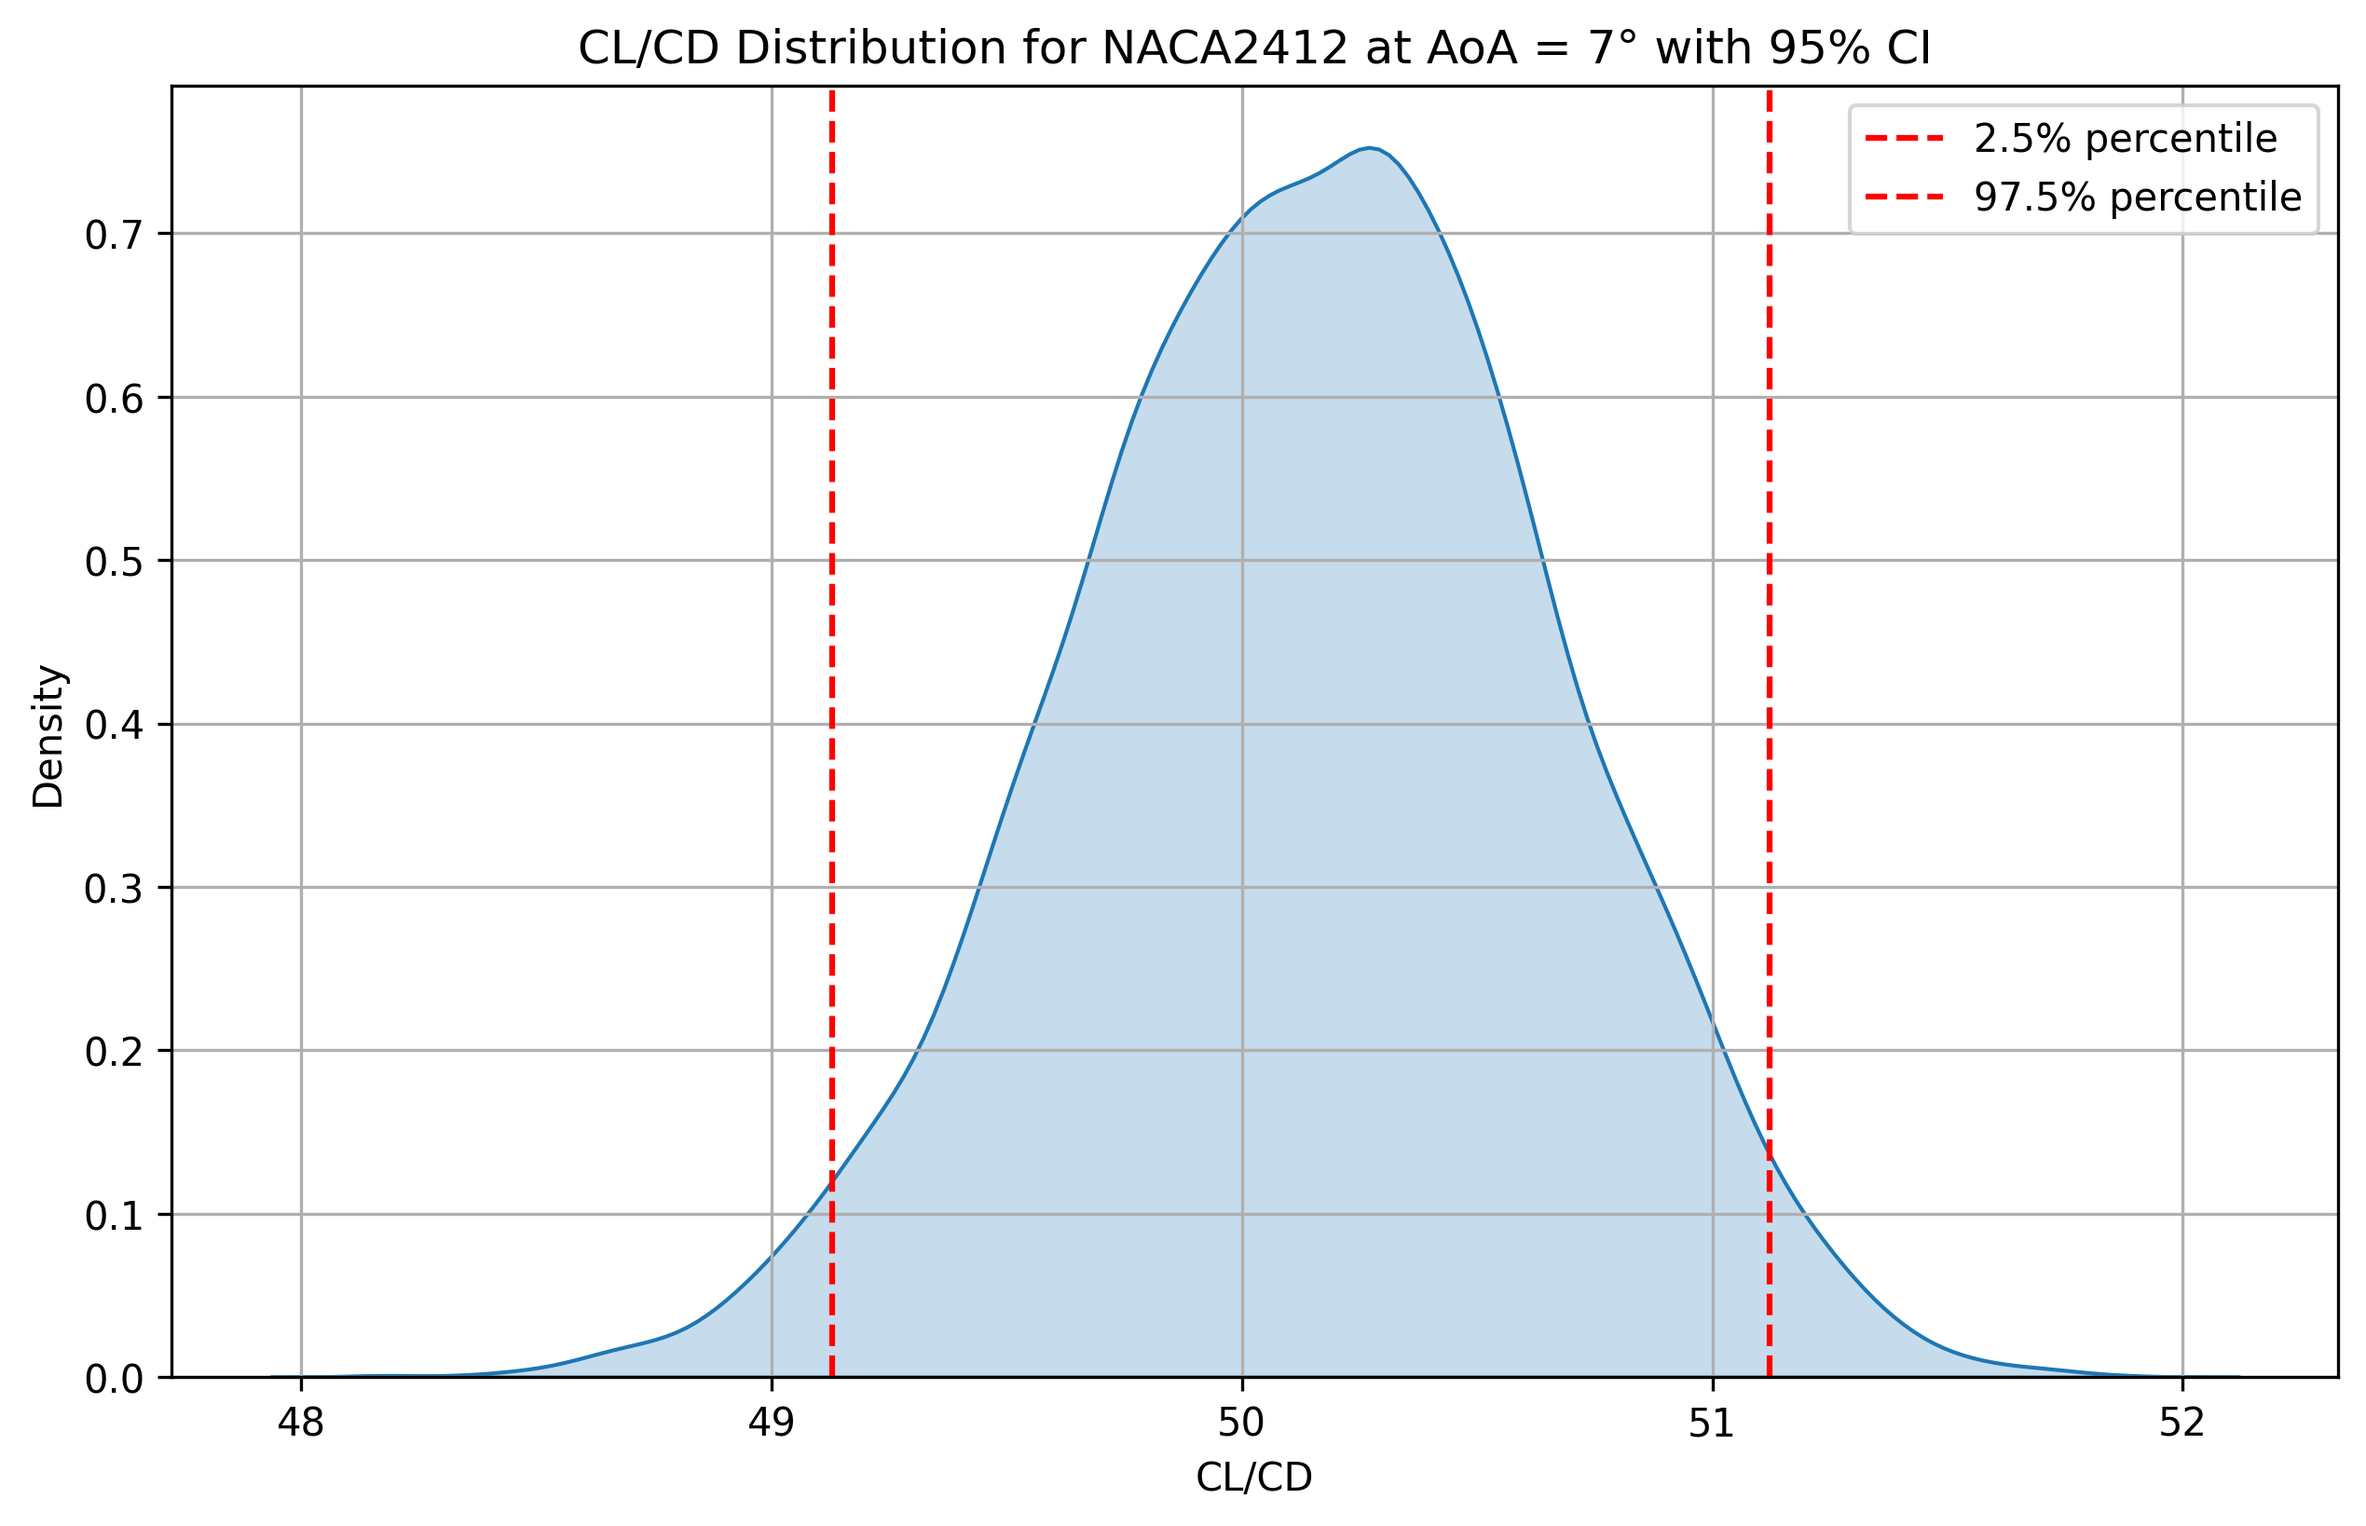
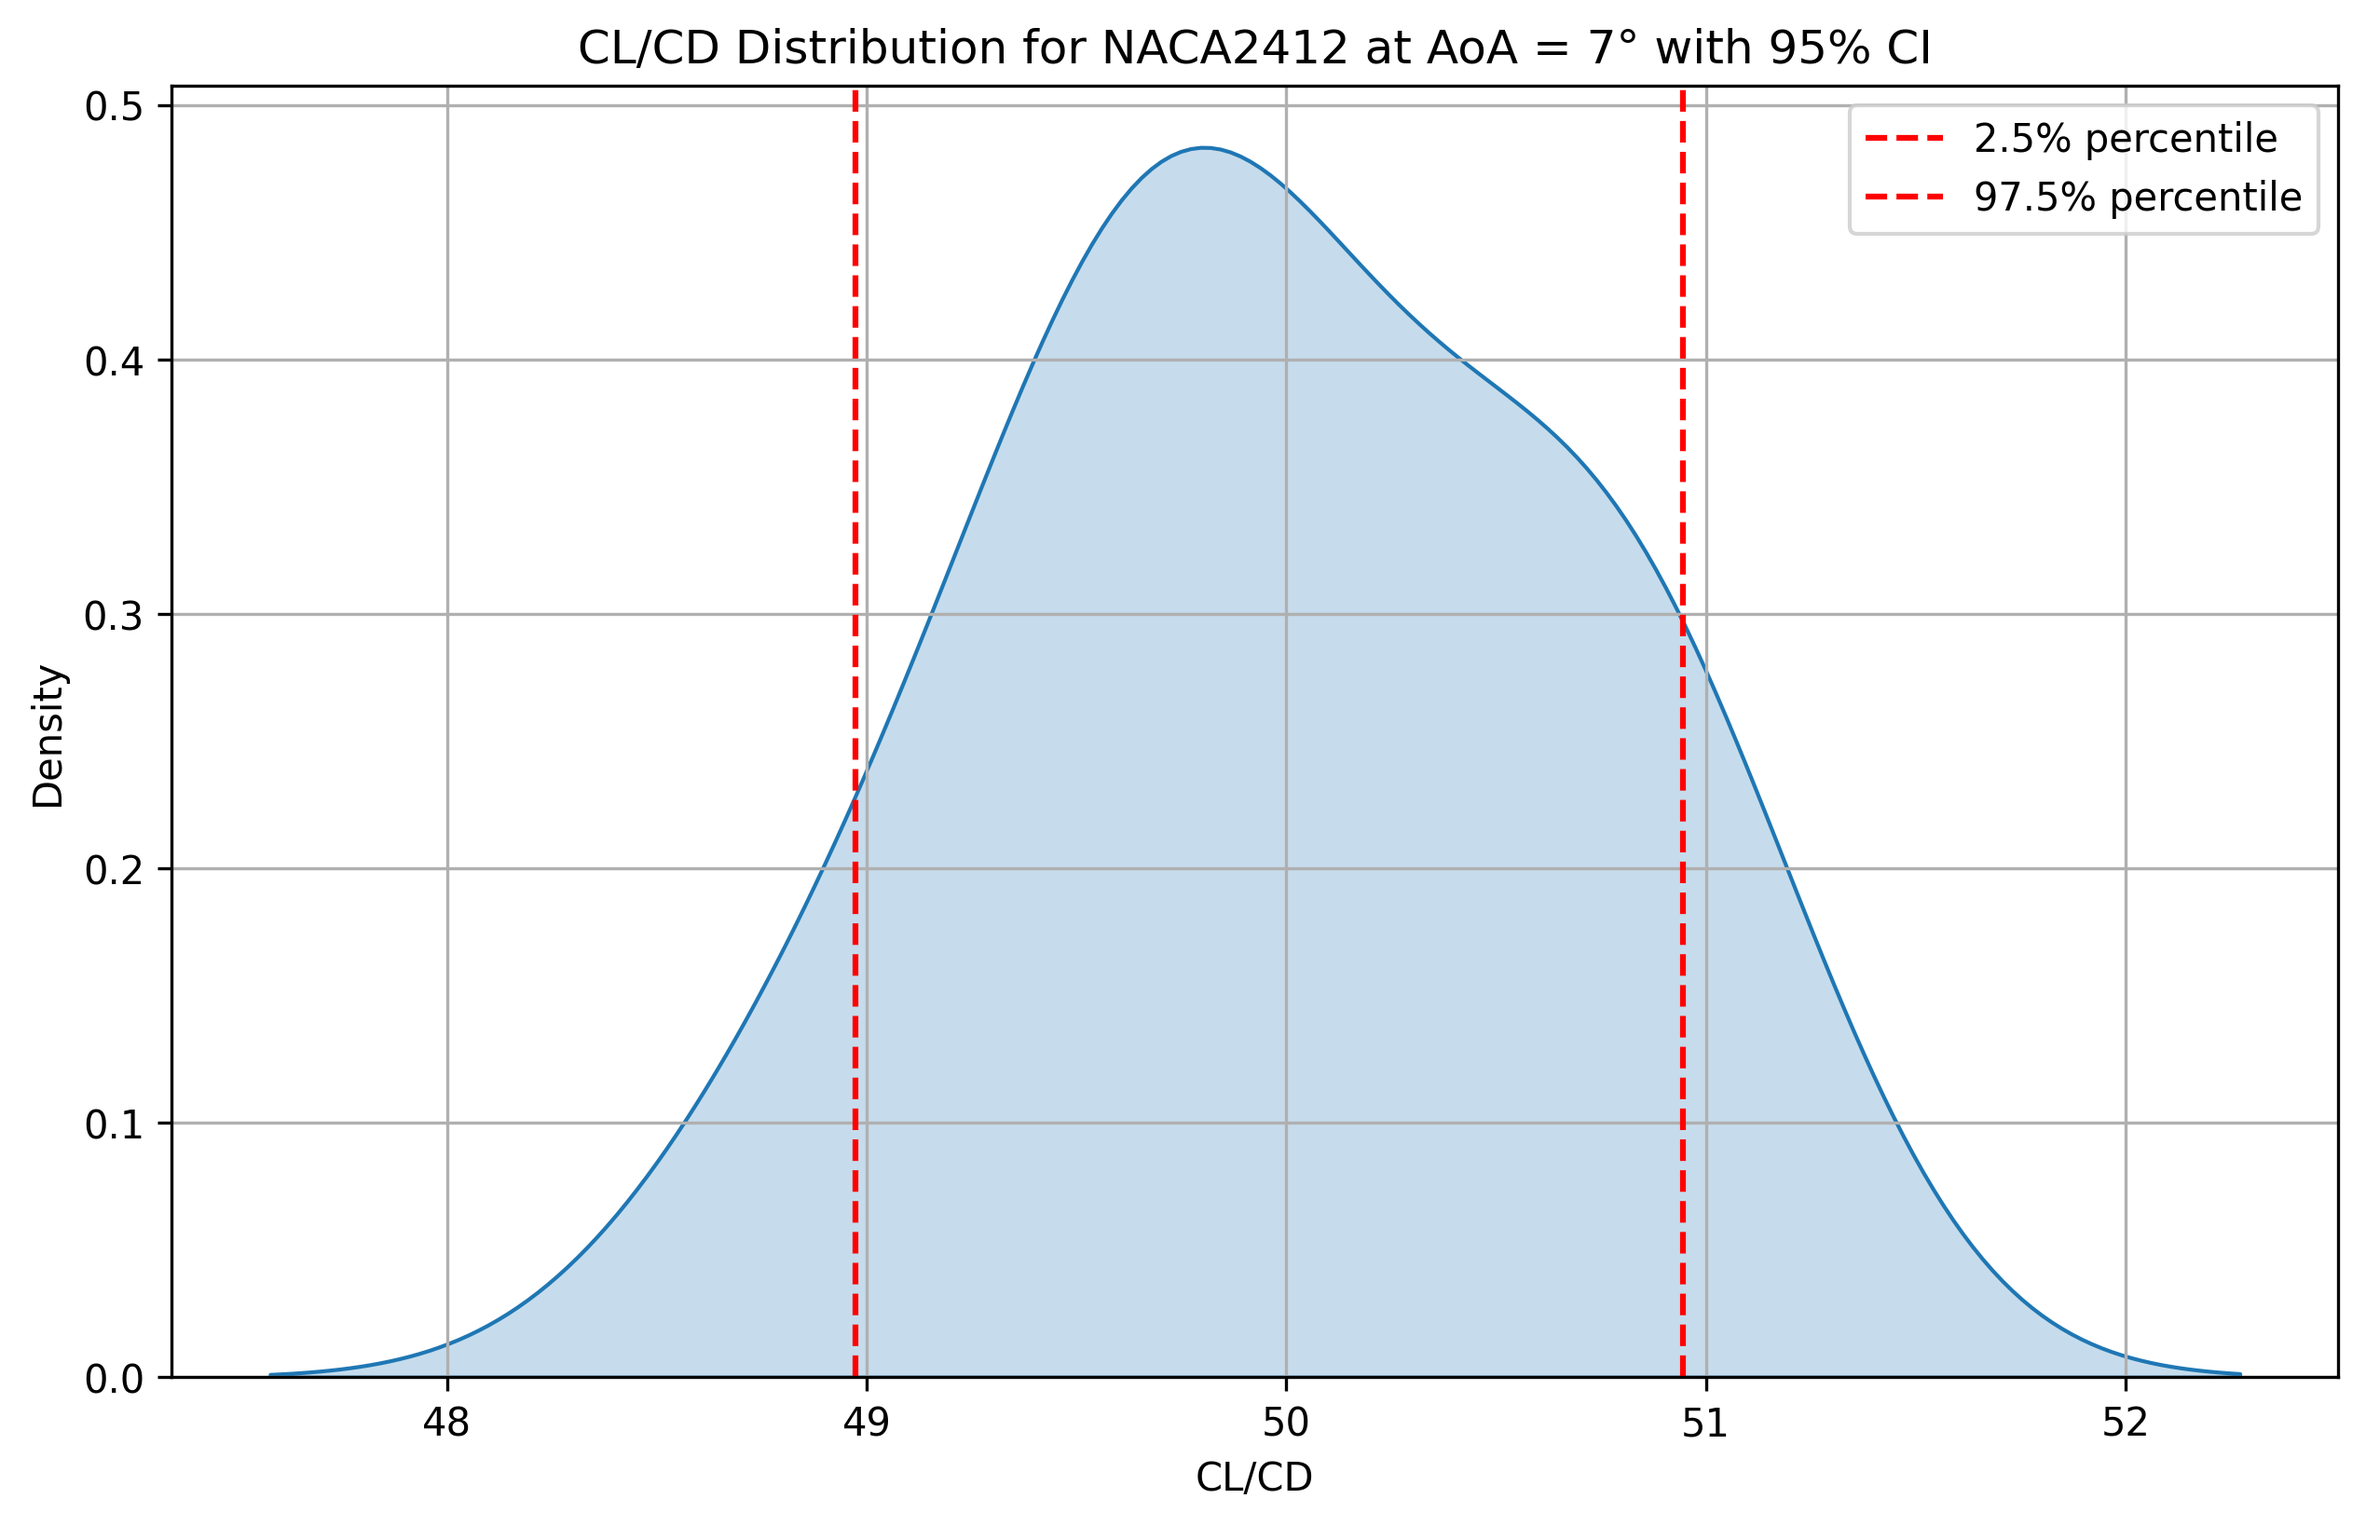
README additions, added plots to plots.py

diff --git a/plots.py b/plots.py
@@ -7,7 +7,7 @@ import os
 os.makedirs('images_new', exist_ok=True)
 
 # Load data
-df = pd.read_csv("airfoil_results.csv")
+df = pd.read_csv("test.csv")
 df["CL/CD"] = df["CL"] / df["CD"]
 
 # Plot 1: KDE plot for specific airfoil at specific AoA
@@ -41,18 +41,15 @@ colors = ['blue', 'red', 'green', 'orange', 'purple']
 
 plt.figure(figsize=(10, 6))
 
-# Plot each airfoil as a separate line
 for i, airfoil in enumerate(airfoils):
     airfoil_data = df[df['Airfoil'] == airfoil]
     grouped = airfoil_data.groupby('Alpha')['CL'].agg(['mean', 'std'])
     
-    # Plot mean line
     plt.plot(grouped.index, grouped['mean'], 
              color=colors[i % len(colors)], 
              label=airfoil, 
              linewidth=2)
     
-    # Add confidence interval (fat area around line)
     plt.fill_between(grouped.index, 
                      grouped['mean'] - 1.96*grouped['std'],
                      grouped['mean'] + 1.96*grouped['std'],
@@ -68,4 +65,25 @@ plt.tight_layout()
 
 # Save the plot
 plt.savefig('images_new/cl_vs_alpha_comparison.png', dpi=300, bbox_inches='tight')
+plt.show()
+
+# Plot 3: Line chart of CL vs CD
+grouped = df.groupby(['Airfoil', 'Alpha'])[['CL', 'CD']].mean().reset_index()
+plt.figure(figsize=(10, 6))
+sns.lineplot(data=grouped, x='CD', y='CL', hue='Airfoil')
+plt.savefig('images_new/cl_vs_cd.png')
+plt.show()
+
+# Plot 4: Lift to Drag Ratio vs AoA
+plt.figure(figsize = (10, 6))
+grouped = df.groupby(["Airfoil", "Alpha"])["CL/CD"].mean().reset_index()
+sns.lineplot(data = grouped, x = "Alpha", y = "CL/CD", hue = "Airfoil")
+plt.savefig("images_new/cl_cd_vs_aoa.png")
+plt.show()
+
+# Plot 5: Moment vs Angle of Attack
+plt.figure(figsize = (10, 6))
+grouped = df.groupby(["Airfoil", "Alpha"])["CM"].mean().reset_index()
+sns.lineplot(data = grouped, x = "Alpha", y = "CM", hue = "Airfoil")
+plt.savefig("images_new/cm_vs_aoa.png")
 plt.show()

diff --git a/airfoil_comparison.py b/airfoil_comparison.py
@@ -93,7 +93,7 @@ with open(r"test.csv", mode='w', newline='') as f:
 
     for airfoil in airfoils:
         print(f"⏳ Running NACA {airfoil}...")
-        reynolds_nums = np.random.normal(loc=100_000, scale=2_000, size=10)  # Set to 10 for testing
+        reynolds_nums = np.random.normal(loc=100_000, scale=2_000, size=10) 
         successful_runs = 0
         
         for i, Re in enumerate(reynolds_nums, start=1):

diff --git a/README.md b/README.md
@@ -1,6 +1,6 @@
 # Aerodynamic Properties Simulator
 
-<!-- ![Project Banner](images/banner.png) Add a banner image showing airfoils when available -->
+<!-- ![Project Banner](images/banner.png) -->
 
 This is a **Python wrapper** around the XFOIL program that simulates aerodynamic properties of NACA airfoils. It automates the process of generating airfoil data (lift coefficient CL, drag coefficient CD, and moment coefficient CM) over a range of angles of attack using XFOIL's command-line interface.
 
@@ -14,7 +14,7 @@ This is a **Python wrapper** around the XFOIL program that simulates aerodynamic
 
 - **Multi-Airfoil Support**: Analyzes multiple NACA airfoils (2412, 0012, 0009) simultaneously
 - **Angle of Attack Sweep**: Automatically sweeps angles from 0° to 14° (customizable range)
-- **Reynolds Number Variation**: Generates multiple simulations with varied Reynolds numbers using statistical distribution
+- **Reynolds Number Variation**: Generates multiple simulations with varied Reynolds numbers using normal distribution
 - **Data Export**: Saves results to clean, structured CSV files for further analysis
 - **Robust Parsing**: Handles XFOIL convergence issues and output parsing gracefully
 - **Offline Operation**: Fully offline, runs with local `xfoil.exe`
@@ -35,7 +35,7 @@ This is a **Python wrapper** around the XFOIL program that simulates aerodynamic
 
 ## Quick Start
 
-<!-- ![Installation Demo](images/installation.gif) Add installation walkthrough when available -->
+<!-- ![Installation Demo](images/installation.gif) -->
 
 ### 1. Setup
 ```bash
@@ -64,11 +64,21 @@ The script generates:
 
 ## Data Visualization
 
-Use the included `plots.py` to generate comprehensive visualizations:
+Use the included `plots.py` to generate visualizations:
 
 ```bash
 python plots.py
 ```
+
+---
+
+## Plots
+
+- KDE plot
+- Line Plot for lift vs AoA with confidence intervals
+- Line Plot for lift vs drag
+- Line Plot for lift to drag Ratio vs AoA
+- Line Plot for moment vs angle of Attack
 
 ---
 
